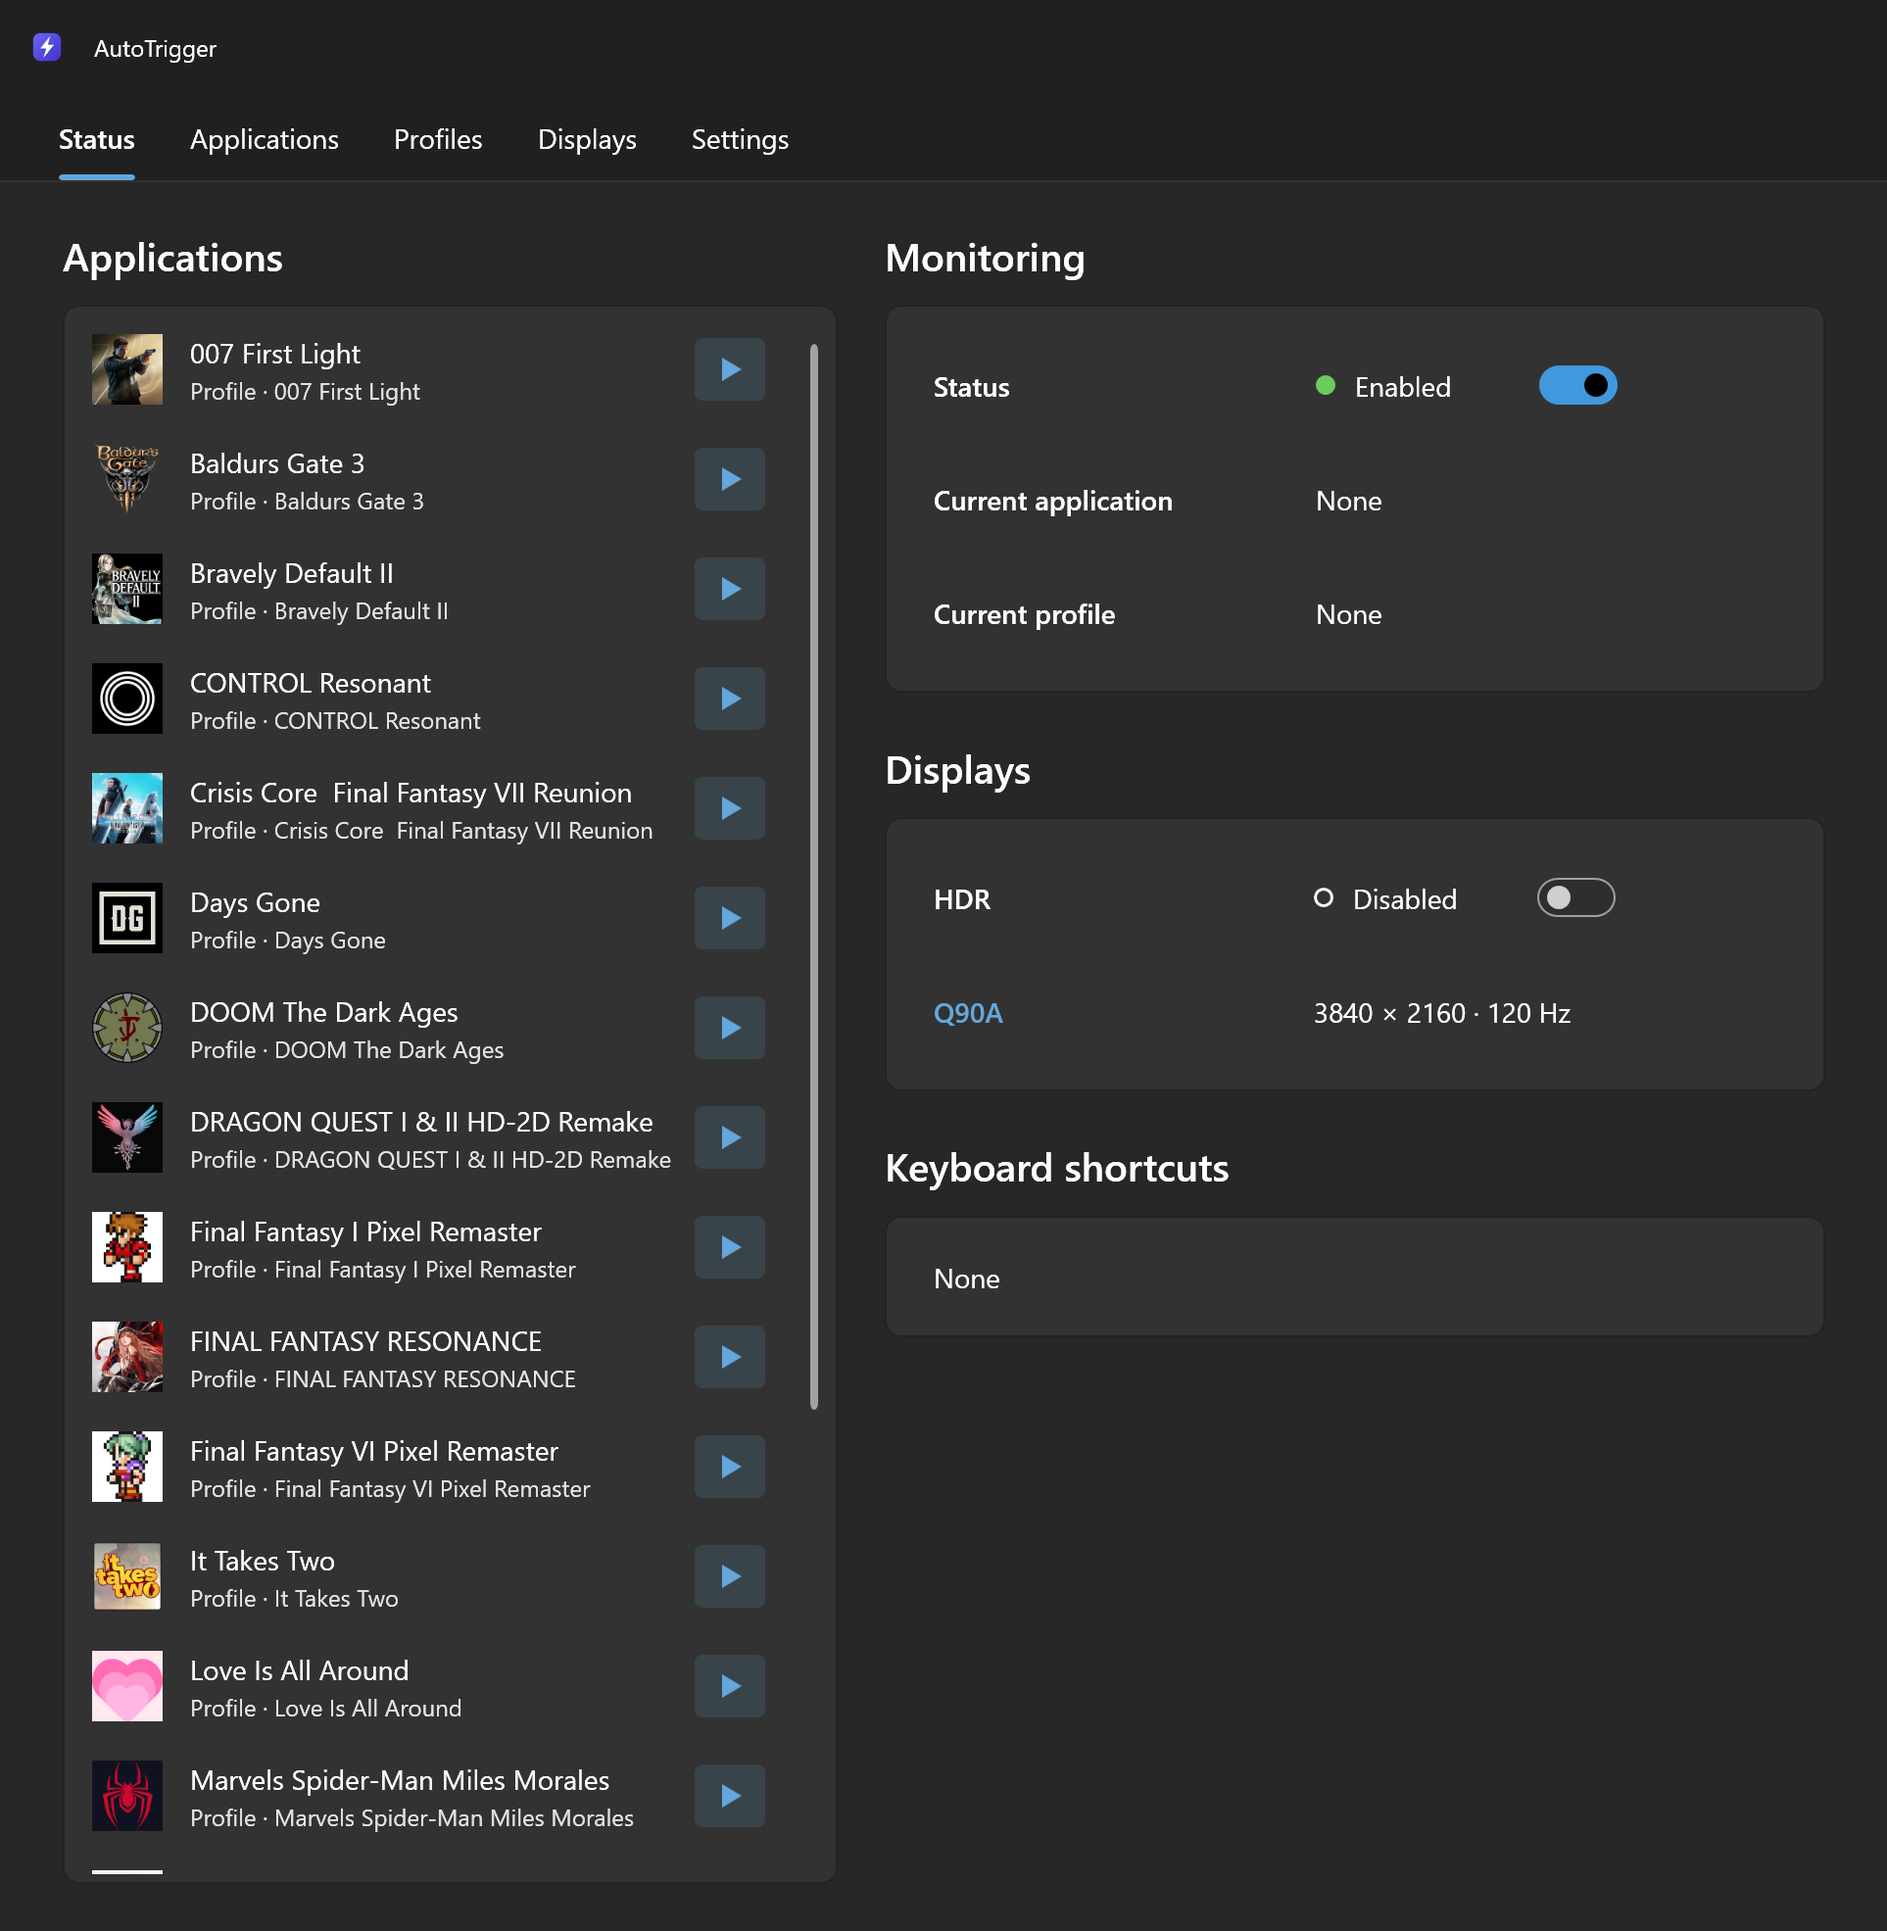
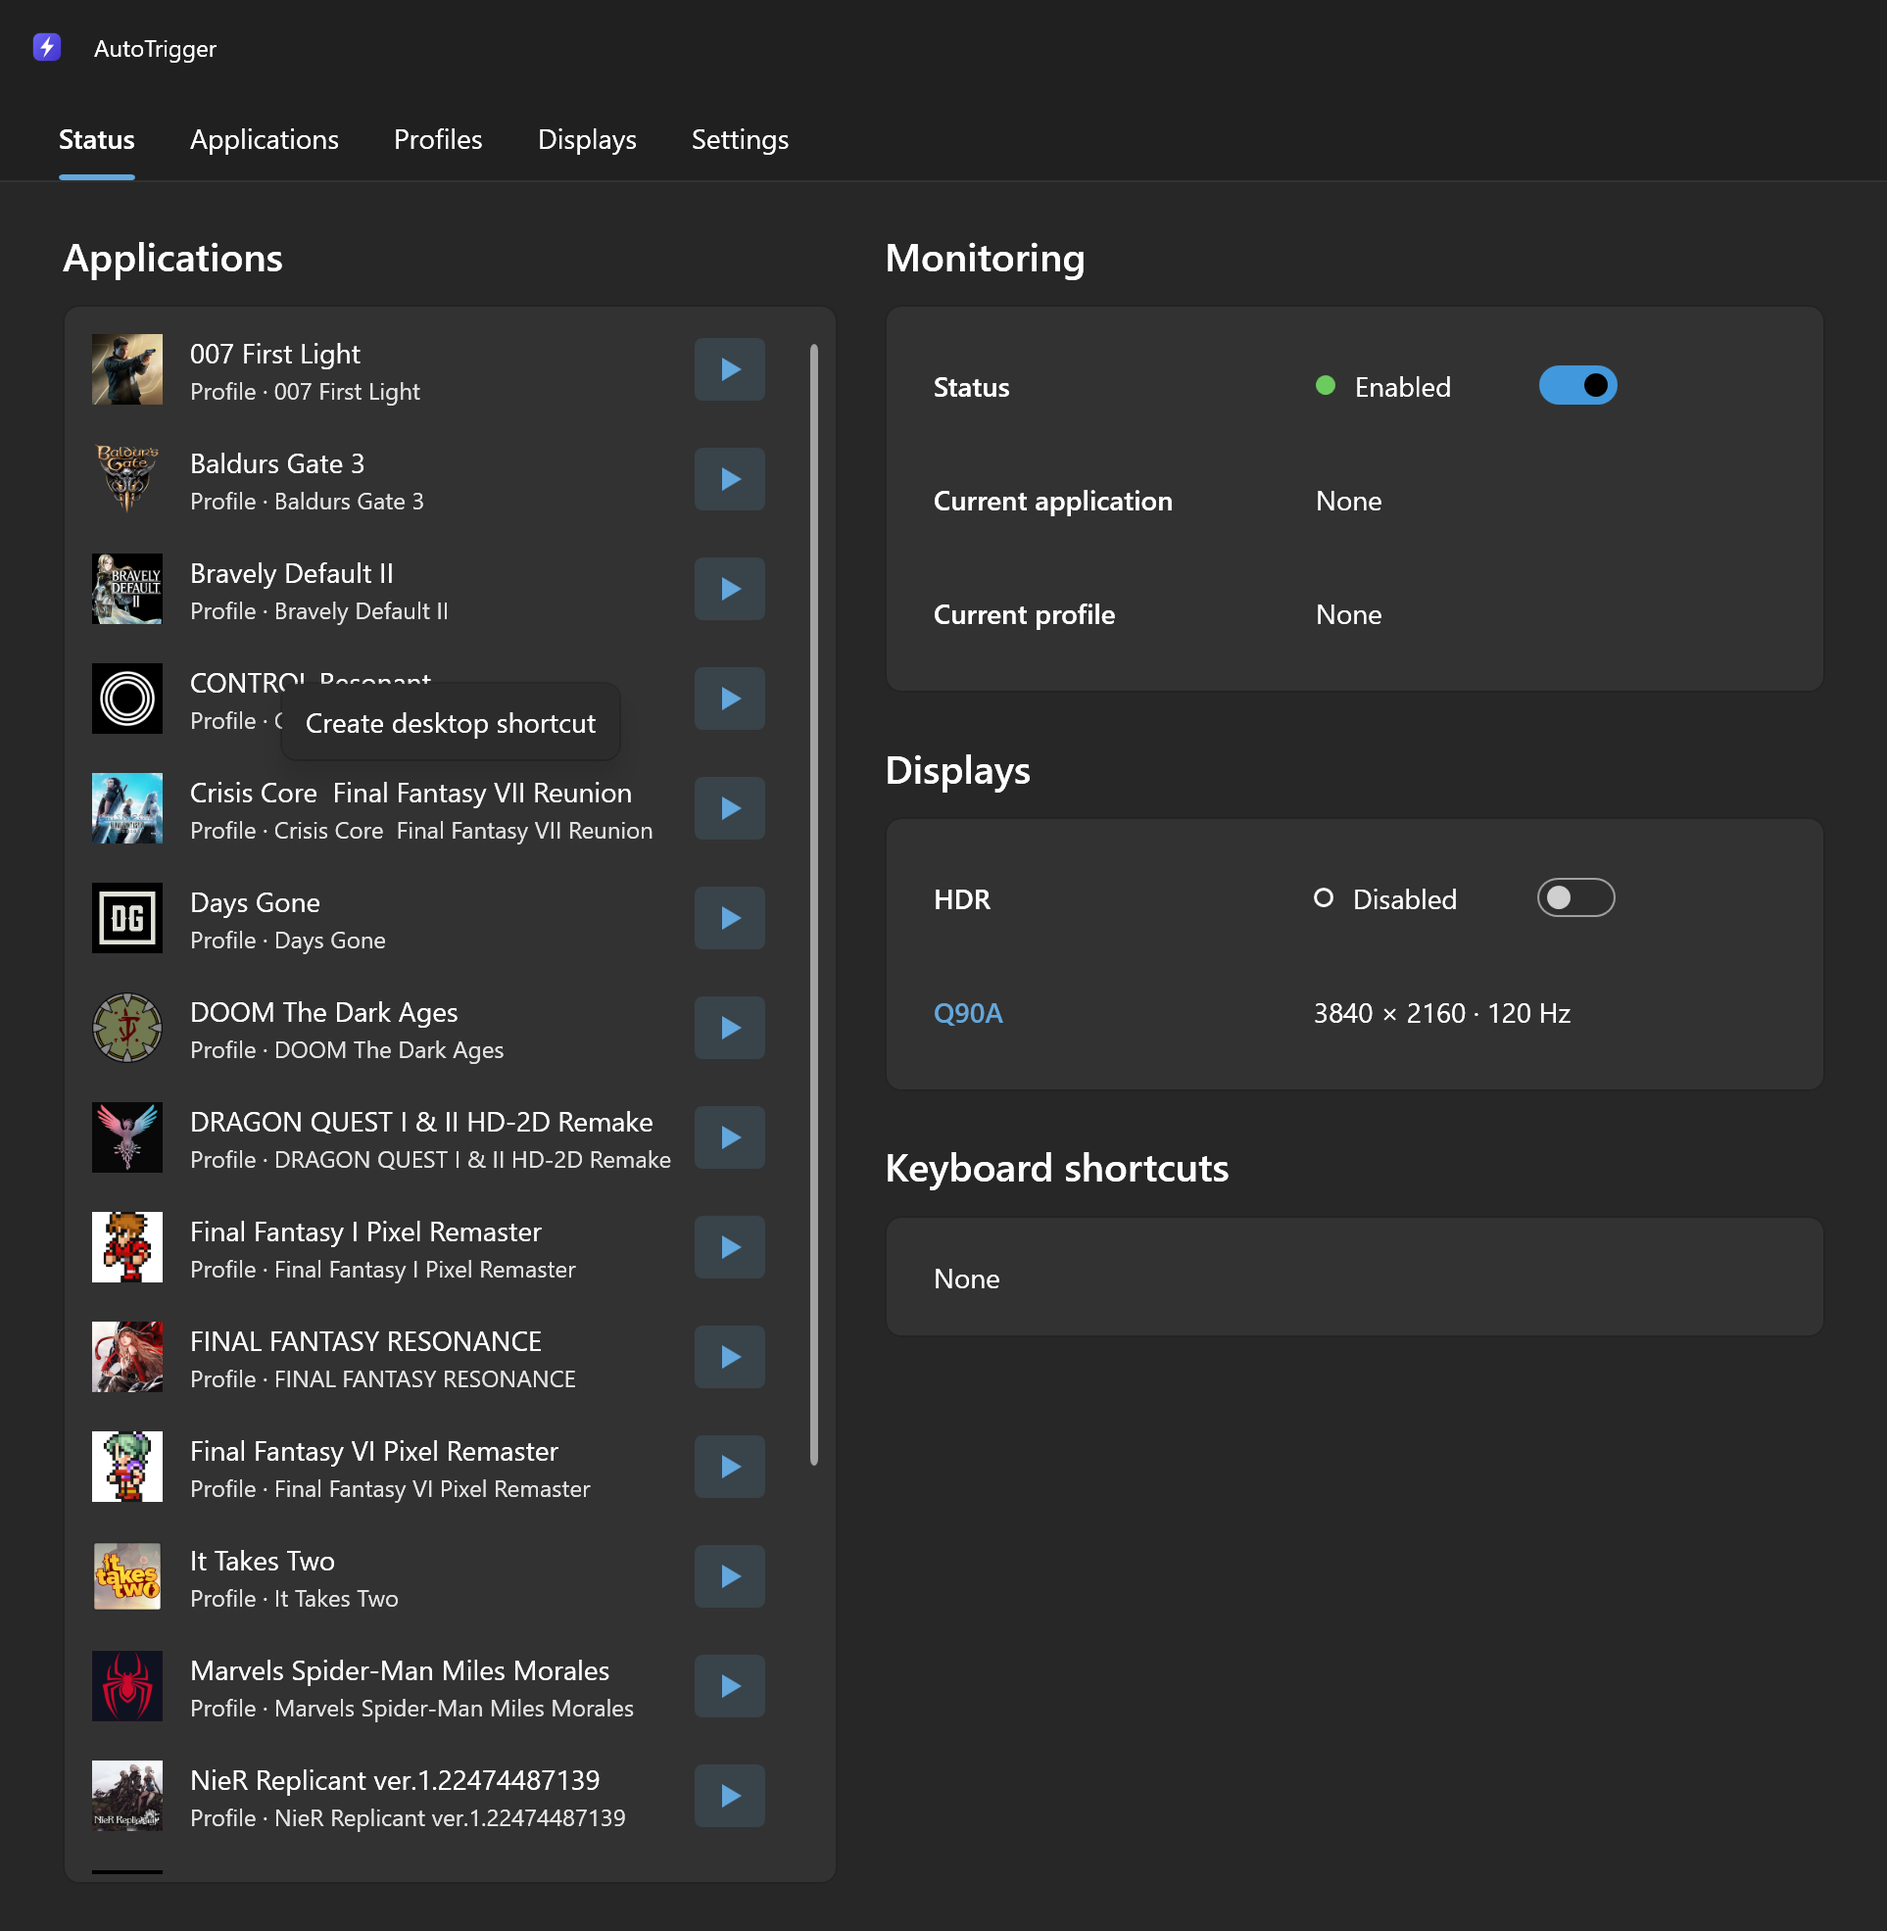
README: Status image with the desktop shortcut menu

Changed region(s): [[0.0312, 0.8356, 0.3427, 0.9594], [0.1558, 0.3404, 0.2804, 0.4023]]

diff --git a/README.md b/README.md
@@ -44,7 +44,7 @@ AutoTrigger is a free, open-source tray app that changes Windows settings when a
 - Update check: a link at the bottom of the window and a dot on the tray icon when a new version is out.
 - About 0.06 % of one CPU core while idle. No administrator rights. The only network access is the update check, which can be turned off.
 
-<img src="images/status.png" alt="AutoTrigger Status page: applications with their Launch button and what it runs; monitoring switch, current application and profile; HDR switch and each display with its resolution and refresh rate; keyboard shortcuts">
+<img src="images/status.png" alt="AutoTrigger Status page: applications with their Launch button and what it runs, one with its right-click menu to create a desktop shortcut; monitoring switch, current application and profile; HDR switch and each display with its resolution and refresh rate; keyboard shortcuts">
 
 <img src="images/applications.png" alt="Applications page: each game or app with its profile, what its Launch button runs, and a monitoring switch">
 
